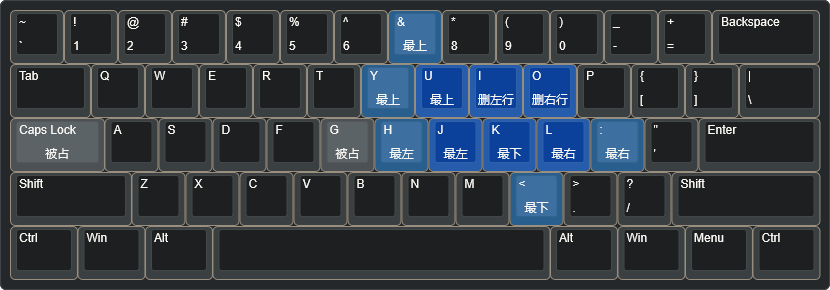
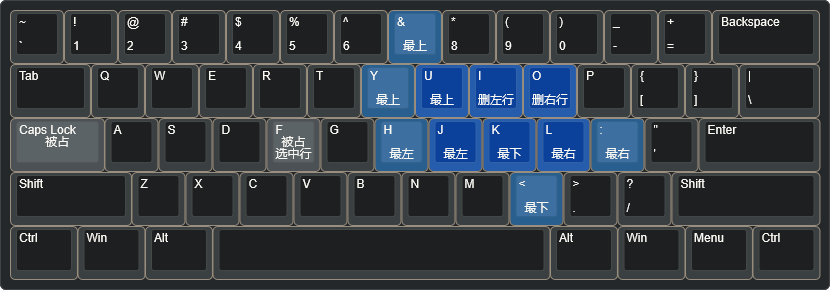
docs(kanata): update

Changed region(s): [[0.3313, 0.4034, 0.4518, 0.5586], [0.0301, 0.4655, 0.0904, 0.5586]]

diff --git a/Kanata/InstallerAndScript/keyboard-layout-backup.md b/Kanata/InstallerAndScript/keyboard-layout-backup.md
@@ -29,7 +29,7 @@
 ```json
 ["~\n`","!\n1","@\n2","#\n3","$\n4","%\n5","^\n6",{c:"#2D6CA1"},"&\n\n\n\n\n\n\n\n\n\n最上",{c:"#cccccc"},"*\n8","(\n9",")\n0","_\n-","+\n=",{w:2},"Backspace"],
 [{w:1.5},"Tab","Q","W","E","R","T",{c:"#2D6CA1"},"Y\n\n\n\n\n\n\n\n\n\n最上",{c:"#407DD5"},"U\n\n\n\n\n\n\n\n\n\n最上","I\n\n\n\n\n\n\n\n\n\n删左行","O\n\n\n\n\n\n\n\n\n\n删右行",{c:"#cccccc"},"P","{\n[","}\n]",{w:1.5},"|\n\\"],
-[{c:"#615555",w:1.75},"Caps Lock\n\n\n\n\n\n\n\n\n\n被占",{c:"#cccccc"},"A","S","D","F",{c:"#615555"},"G\n\n\n\n\n\n\n\n\n\n被占",{c:"#2D6CA1"},"H\n\n\n\n\n\n\n\n\n\n最左",{c:"#407DD5"},"J\n\n\n\n\n\n\n\n\n\n最左","K\n\n\n\n\n\n\n\n\n\n最下","L\n\n\n\n\n\n\n\n\n\n最右",{c:"#2D6CA1"},":\n\n\n\n\n\n\n\n\n\n最右",{c:"#cccccc"},"\"\n'",{w:2.25},"Enter"],
+[{c:"#615555",w:1.75},"Caps Lock\n\n\n\n\n\n\n\n\n被占",{c:"#cccccc"},"A","S","D",{c:"#615555"},"F\n\n\n\n\n\n\n\n\n被占\n选中行",{c:"#cccccc"},"G",{c:"#2D6CA1"},"H\n\n\n\n\n\n\n\n\n\n最左",{c:"#407DD5"},"J\n\n\n\n\n\n\n\n\n\n最左","K\n\n\n\n\n\n\n\n\n\n最下","L\n\n\n\n\n\n\n\n\n\n最右",{c:"#2D6CA1"},":\n\n\n\n\n\n\n\n\n\n最右",{c:"#cccccc"},"\"\n'",{w:2.25},"Enter"],
 [{w:2.25},"Shift","Z","X","C","V","B","N","M",{c:"#2D6CA1"},"<\n\n\n\n\n\n\n\n\n\n最下",{c:"#cccccc"},">\n.","?\n/",{w:2.75},"Shift"],
 [{w:1.25},"Ctrl",{w:1.25},"Win",{w:1.25},"Alt",{a:7,w:6.25},"",{a:4,w:1.25},"Alt",{w:1.25},"Win",{w:1.25},"Menu",{w:1.25},"Ctrl"]
 ```

diff --git a/Kanata/InstallerAndScript/README.md b/Kanata/InstallerAndScript/README.md
@@ -1,3 +1,5 @@
+# LincCaps
+
 ## 使用
 
 exe是可执行程序，如果你是windows，直接用这个就行了。
@@ -13,33 +15,41 @@ kanata.kbd 是脚本，与exe在同一目录下，双击exe就可以运行了！
 
 图片使用说明: 中间表示长按，下面表示短按
 
-## 默认层
+### 默认层
 
 ![](./assets/keyboard-layout-default.png)
 
-## Caps-光标层
+### 两个特殊层
+
+这里还有两个特殊层，但内容过少我就不另外制图了
+
+- Caps + 空格 = 回车
+- Shift + 空格 = Shift + 回车
+- Ctrl + 空格 = Ctrl + 回车
+
+### Caps-光标层
 
 Caps 与其子层与 Shift 按键完全兼容，**可以同时按住 Caps 和 Shift 进行选择**
 
 ![](./assets/keyboard-layout-cursor.png)
 
-## Caps-词层
+### Caps-词层
 
 (相当于按住Ctrl键的光标层，光标的左右移动会以单词为单位)
 
-## Caps-行层
+### Caps-行层
 
 ![](./assets/keyboard-layout-line.png)
 
-## Caps-页层
+### Caps-页层
 
 ![](./assets/keyboard-layout-page.png)
 
-## Caps-数字层
+### Caps-数字层
 
 ![](./assets/keyboard-layout-num.png)
 
-## 符号层
+### 符号层
 
 > [!warning]
 > with bug，当前的成对括号部分存在问题，无法在保证快速的前提下识别是否有选中内容
